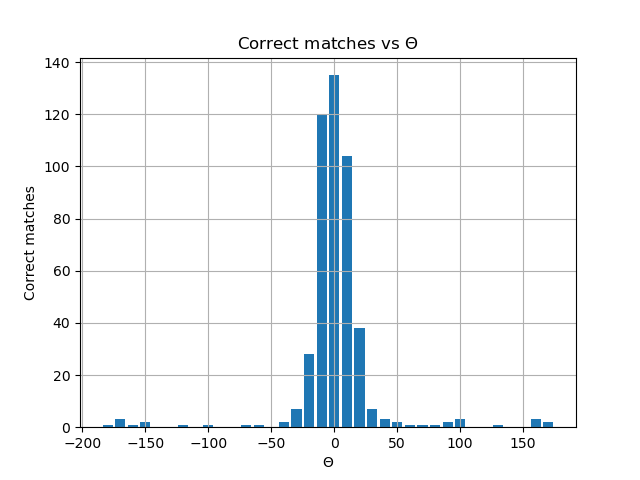
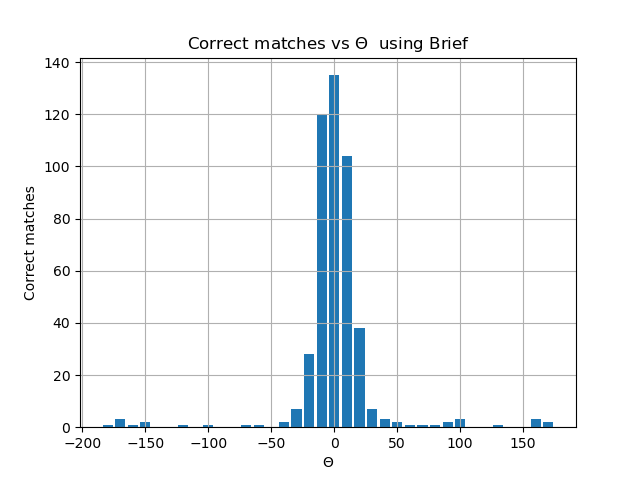
Hw1 2.6

Changed region(s): [[0.2812, 0.0625, 0.75, 0.125]]

diff --git a/Hw1/code/part_B/briefOrbCommon.py b/Hw1/code/part_B/briefOrbCommon.py
@@ -1,0 +1,82 @@
+from my_BRIEF import *
+import numpy as np
+import cv2
+
+
+# %% 2.5 brief properties
+
+def checkRotLocs(locs0, locsTheta, matches, theta,
+                 c0, cTheta, th_d=9.0):
+    # INPUTS
+    #     locs0     - m1x3 matrix of keypoints (x,y,l) of the unrotated image
+    #     locsTheta - m2x3 matrix of keypoints (x,y,l) of the rotated image
+    #     matches   - px2 matrix of matches indexing into locs0 and locsTheta
+    #     theta     - rotation angle in degress
+    #     c0        - center of the unrotated image
+    #     cTheta    - center of the rotated image
+    #     th_d      - threshold distance of matched keypoints in pixels
+    # OUTPUTS
+    #     corrMatch - number of correct matches
+    # keep only the matched keypoints (x,y)
+    locs0 = locs0[matches[:,0],:2]
+    locsTheta = locsTheta[matches[:,1],:2]
+    # rotate the locations at theta=0 and shift them to the new center
+    theta = np.deg2rad(theta)
+    rot_mat = np.array([[np.cos(theta), -np.sin(theta)],
+                        [np.sin(theta), np.cos(theta)]])
+    locs0_rot = (rot_mat@(locs0-c0).T).T+cTheta
+    # count the number of correct matches with a distance threshold Td
+    corrMatch = np.sum(np.sqrt(np.sum((locs0_rot-locsTheta)**2, 1)) < th_d)
+    return corrMatch
+
+
+def rotateImage(image, theta):
+    # rotates an image and calculates the new center pixel
+    # INPUTS
+    #      image      - HxW image to be rotated
+    #      theta      - rotation angle in degrees [0,360]
+    # OUTPUTS
+    #      image_rot  - H2xW2 rotated image
+    #      center_rot - (2,) array of the new center pixel
+    (h, w) = image.shape[:2]
+    (cX, cY) = (w // 2, h // 2)
+    M = cv2.getRotationMatrix2D((cX, cY), -theta, 1.0)
+    cos = np.abs(M[0, 0])
+    sin = np.abs(M[0, 1])
+    nW = int((h * sin) + (w * cos))
+    nH = int((h * cos) + (w * sin))
+    M[0, 2] += (nW / 2) - cX
+    M[1, 2] += (nH / 2) - cY
+    image_rot = cv2.warpAffine(image, M, (nW, nH))
+    center_rot = (np.array(image_rot.shape[:2][::-1])-1)/2
+    return image_rot, center_rot
+
+def plotMatches(corrMatchesList, thetas, title_append=''):
+    fig = plt.figure()
+    ax = fig.gca()
+    ax.bar(thetas, corrMatchesList, width=8)
+    ax.set_xlabel('$\Theta$')
+    ax.set_ylabel('Correct matches')
+    ax.set_title(f'Correct matches vs $\Theta$ {title_append}')
+    ax.grid()
+    plt.show()
+
+# translate openCV to our data structs
+def openCV2numpy(kp1, kp2, matches):
+    # function transfers OpenCV keypoints and matches to numpy arrays
+    # INPUTS
+    #     kp1        - keypoints detected for img 1 using orb.detectAndCompute()
+    #     kp2        - keypoints detected for img 2 using orb.detectAndCompute()
+    #     matches    - matches returned by cv2.BFMatcher()
+    # OUTPUTS
+    #     locs1      - m1x3 matrix of keypoints (x,y,l)
+    #     locs2      - m2x3 matrix of keypoints (x,y,l)
+    #     matches_np - px2 matrix indexing into locs1 and locs2
+
+    locs1 = np.array([[kp1[idx].pt[0], kp1[idx].pt[1], float(kp1[idx].octave)]
+                      for idx in range(0, len(kp1))]).reshape(-1, 3)
+    locs2 = np.array([[kp2[idx].pt[0], kp2[idx].pt[1], float(kp2[idx].octave)]
+                      for idx in range(0, len(kp2))]).reshape(-1, 3)
+    matches_np = [[mat.queryIdx, mat.trainIdx] for mat in matches]
+    matches_np = np.stack(matches_np)
+    return locs1, locs2, matches_np

diff --git a/Hw1/code/part_B/briefRotTest.py b/Hw1/code/part_B/briefRotTest.py
@@ -1,60 +1,12 @@
-from my_BRIEF import *
+from briefOrbCommon import *
 import numpy as np
 import cv2
 
 
 # %% 2.5 brief properties
 
-def checkRotLocs(locs0, locsTheta, matches, theta,
-                 c0, cTheta, th_d=9.0):
-    # INPUTS
-    #     locs0     - m1x3 matrix of keypoints (x,y,l) of the unrotated image
-    #     locsTheta - m2x3 matrix of keypoints (x,y,l) of the rotated image
-    #     matches   - px2 matrix of matches indexing into locs0 and locsTheta
-    #     theta     - rotation angle in degress
-    #     c0        - center of the unrotated image
-    #     cTheta    - center of the rotated image
-    #     th_d      - threshold distance of matched keypoints in pixels
-    # OUTPUTS
-    #     corrMatch - number of correct matches
-    # keep only the matched keypoints (x,y)
-    locs0 = locs0[matches[:,0],:2]
-    locsTheta = locsTheta[matches[:,1],:2]
-    # rotate the locations at theta=0 and shift them to the new center
-    theta = np.deg2rad(theta)
-    rot_mat = np.array([[np.cos(theta), -np.sin(theta)],
-                        [np.sin(theta), np.cos(theta)]])
-    locs0_rot = (rot_mat@(locs0-c0).T).T+cTheta
-    # count the number of correct matches with a distance threshold Td
-    corrMatch = np.sum(np.sqrt(np.sum((locs0_rot-locsTheta)**2, 1)) < th_d)
-    return corrMatch
+def rotateAndCountMatchBrief(im_g):
 
-
-def rotateImage(image, theta):
-    # rotates an image and calculates the new center pixel
-    # INPUTS
-    #      image      - HxW image to be rotated
-    #      theta      - rotation angle in degrees [0,360]
-    # OUTPUTS
-    #      image_rot  - H2xW2 rotated image
-    #      center_rot - (2,) array of the new center pixel
-    (h, w) = image.shape[:2]
-    (cX, cY) = (w // 2, h // 2)
-    M = cv2.getRotationMatrix2D((cX, cY), -theta, 1.0)
-    cos = np.abs(M[0, 0])
-    sin = np.abs(M[0, 1])
-    nW = int((h * sin) + (w * cos))
-    nH = int((h * cos) + (w * sin))
-    M[0, 2] += (nW / 2) - cX
-    M[1, 2] += (nH / 2) - cY
-    image_rot = cv2.warpAffine(image, M, (nW, nH))
-    center_rot = (np.array(image_rot.shape[:2][::-1])-1)/2
-    return image_rot, center_rot
-
-def rotateAndCountMatch(im_path):
-
-    im = cv2.imread(im_path)
-    im_g = cv2.cvtColor(im, cv2.COLOR_BGR2GRAY) / 255
     locs_0, desc_0 = briefLite(im_g)
     _, center_0 = rotateImage(im_g, 0)
 
@@ -73,19 +25,15 @@ def rotateAndCountMatch(im_path):
             cTheta=center_rot)
         corrMatchesList.append(corrMatch)
 
-    fig = plt.figure()
-    ax = fig.gca()
-    ax.bar(thetas, corrMatchesList, width=8)
-    ax.set_xlabel('$\Theta$')
-    ax.set_ylabel('Correct matches')
-    ax.set_title('Correct matches vs $\Theta$')
-    ax.grid()
-    plt.show()
+    plotMatches(corrMatchesList, thetas, title_append=' using Brief')
 
 def main():
     data_path = "../../data"
 
-    rotateAndCountMatch(f'{data_path}/model_chickenbroth.jpg')
+    im = cv2.imread(f'{data_path}/model_chickenbroth.jpg')
+    im_g = cv2.cvtColor(im, cv2.COLOR_BGR2GRAY) / 255
+
+    rotateAndCountMatchBrief(im_g)
 
 
 if __name__ == "__main__":

diff --git a/Hw1/code/part_B/orbTest.py b/Hw1/code/part_B/orbTest.py
@@ -1,0 +1,48 @@
+from briefOrbCommon import *
+import numpy as np
+import cv2
+
+
+# %% 2.6 ORB
+
+def rotateAndCountMatchORB(im_g):
+
+    orb = cv2.ORB_create()
+    bf = cv2.BFMatcher(cv2.NORM_HAMMING, crossCheck=True)
+
+    im_g_uint8 = (im_g * 255).astype('uint8')
+    bgr_img = cv2.cvtColor(im_g_uint8, cv2.COLOR_GRAY2BGR)
+    kp_0, desc_0 = orb.detectAndCompute(bgr_img, None)
+    _, center_0 = rotateImage(im_g, 0)
+
+    thetas = np.arange(-180, 180, 10)
+    corrMatchesList = []
+    for theta in thetas:
+        im_rot_g, center_rot = rotateImage(im_g, theta)
+        im_rot_g_uint8 = (im_rot_g * 255).astype('uint8')
+        bgr_rot_img = cv2.cvtColor(im_rot_g_uint8, cv2.COLOR_GRAY2BGR)
+        kp_rot, desc_rot = orb.detectAndCompute(bgr_rot_img, None)
+        bf_matches = bf.match(desc_0, desc_rot)
+        locs_0, locs_rot, matches = openCV2numpy(kp_0, kp_rot, bf_matches)
+        corrMatch = checkRotLocs(
+            locs0=locs_0,
+            locsTheta=locs_rot,
+            matches=matches,
+            theta=theta,
+            c0=center_0,
+            cTheta=center_rot)
+        corrMatchesList.append(corrMatch)
+
+    plotMatches(corrMatchesList, thetas, title_append=' using ORB')
+
+def main():
+    data_path = "../../data"
+
+    im = cv2.imread(f'{data_path}/model_chickenbroth.jpg')
+    im_g = cv2.cvtColor(im, cv2.COLOR_BGR2GRAY) / 255
+
+    rotateAndCountMatchORB(im_g)
+
+
+if __name__ == "__main__":
+    main()

diff --git a/Hw1/code/part_B/main.py b/Hw1/code/part_B/main.py
@@ -34,13 +34,20 @@ scipy.io.savemat(f"{code_path}/testPattern.mat",
 '''
 
 # %% 2.4 descriptors matching
-'''
+
 import testMatch
 
 testMatch.main()
-'''
+
 
 # %% 2.5 brief properties
+
 import briefRotTest
 
 briefRotTest.main()
+
+
+# %% 2.6 ORB
+import orbTest
+
+orbTest.main()
